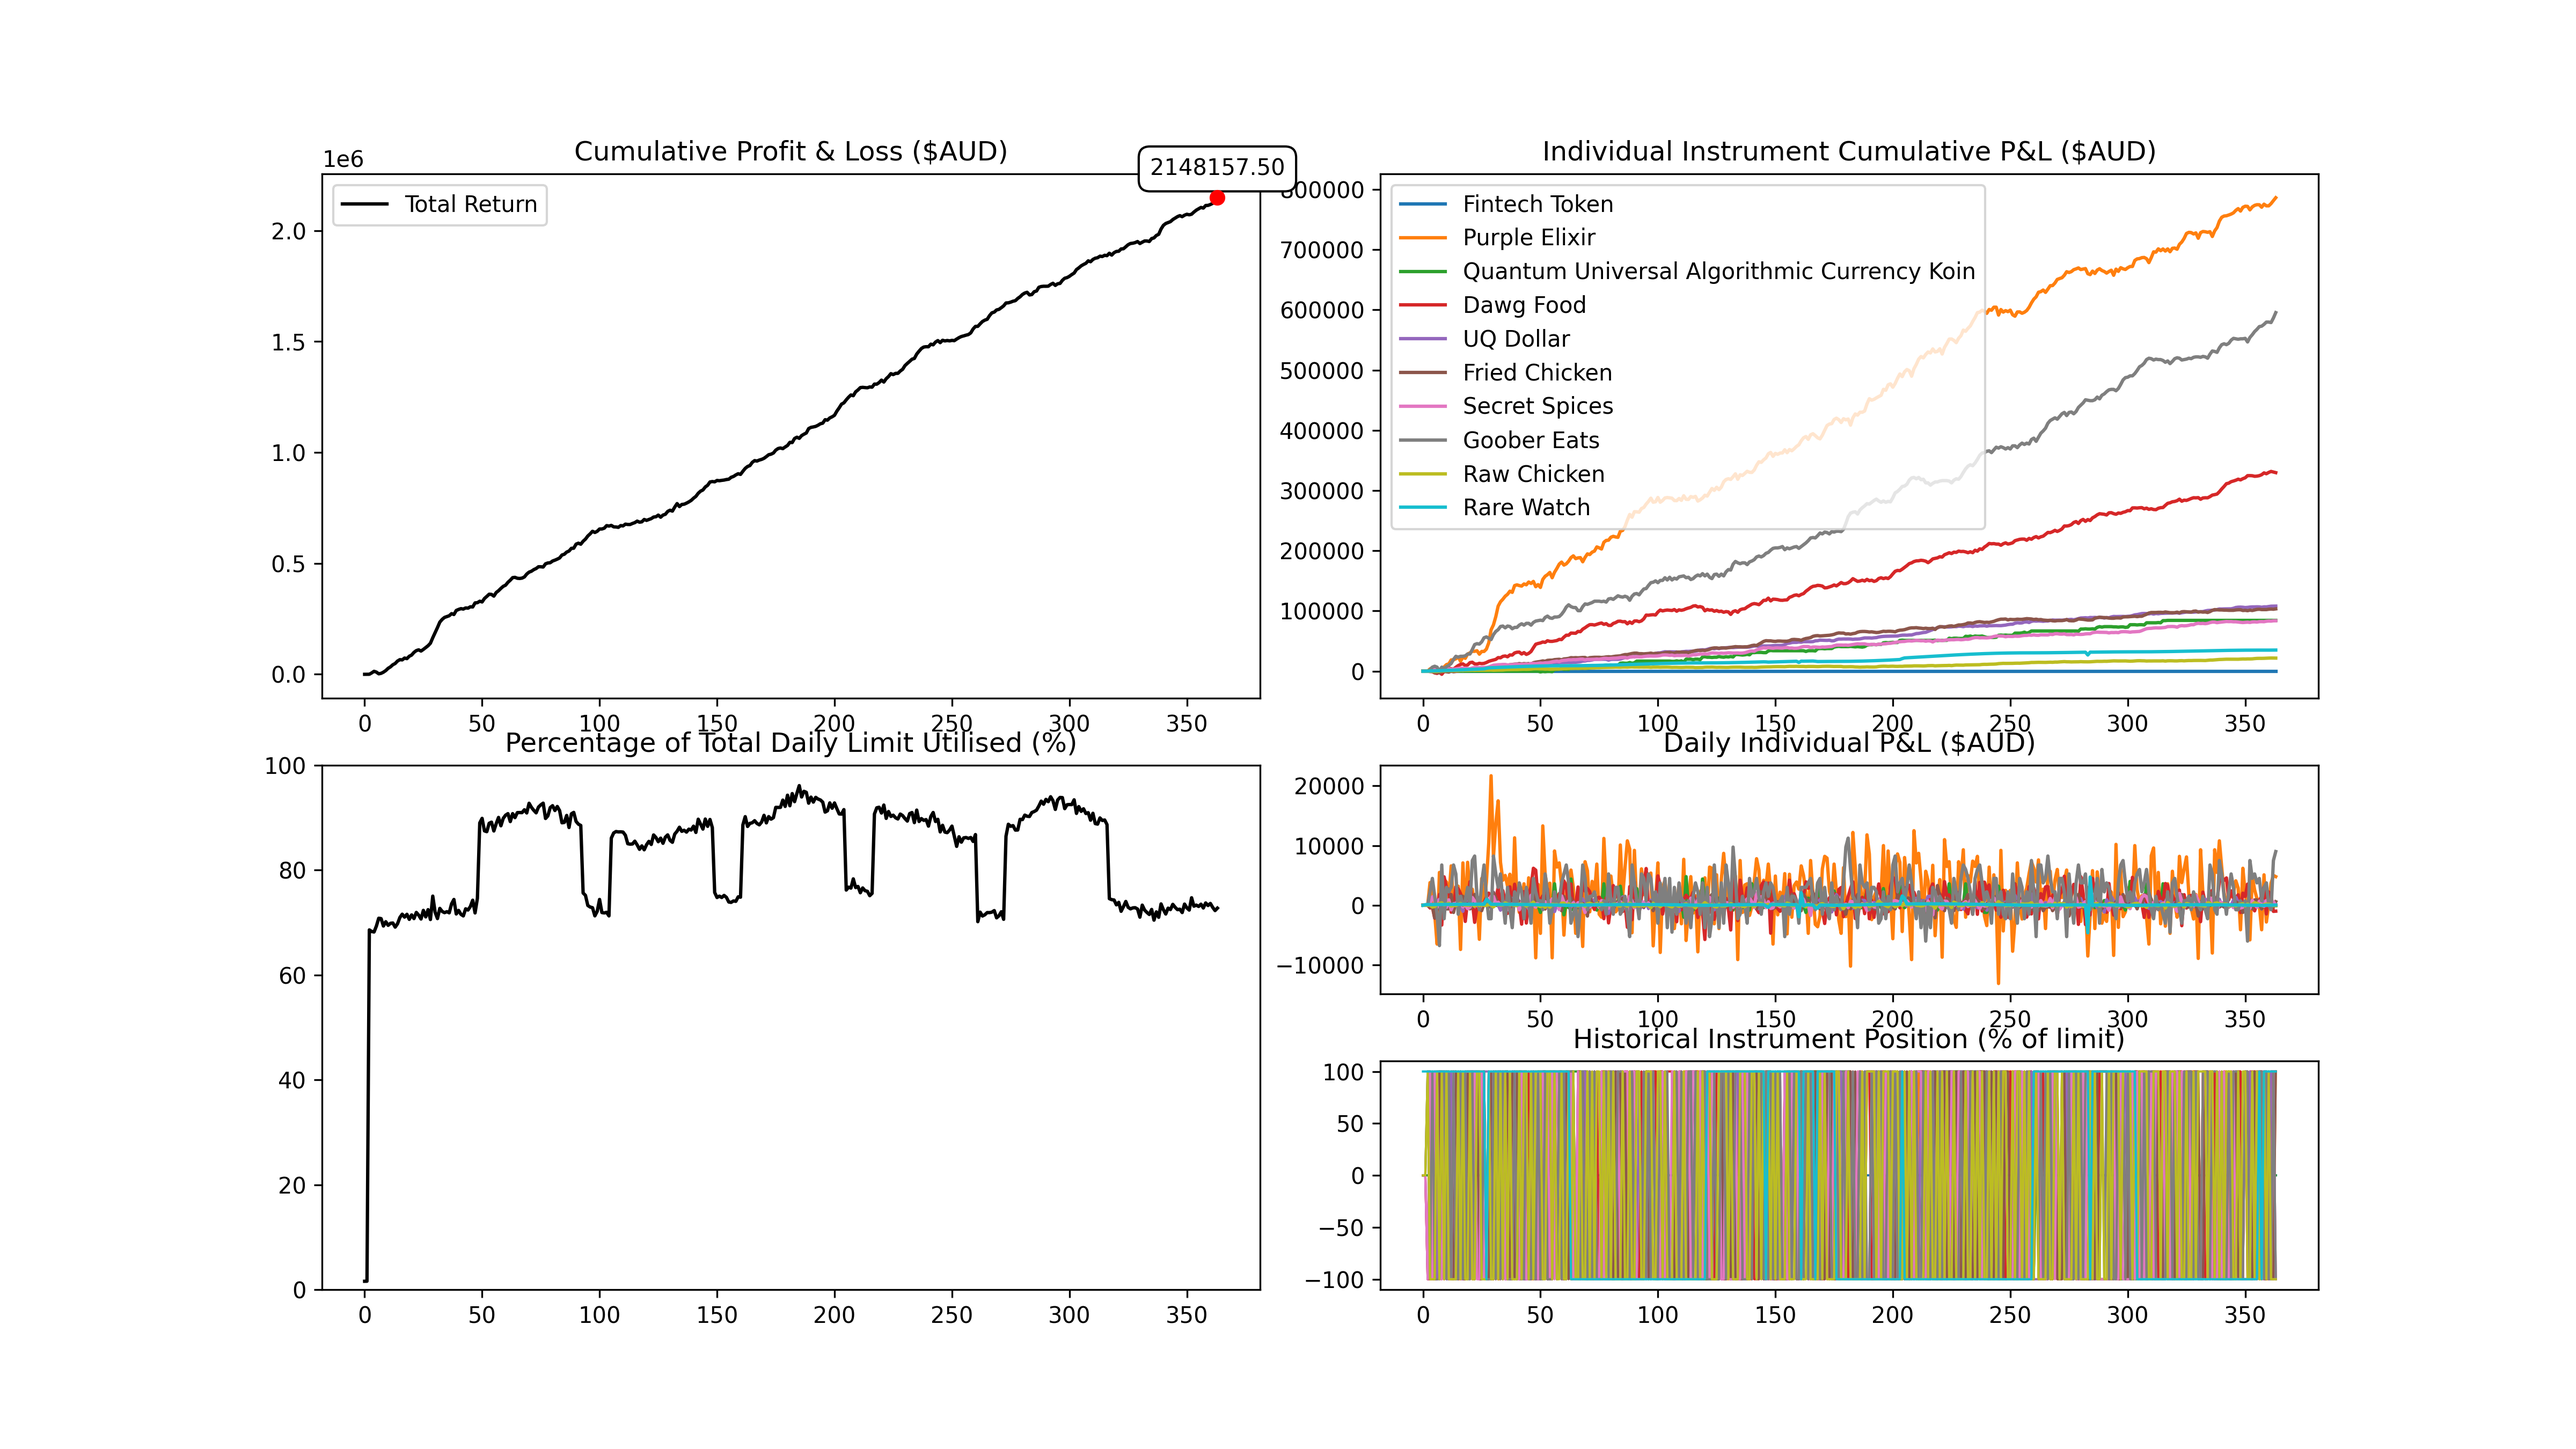
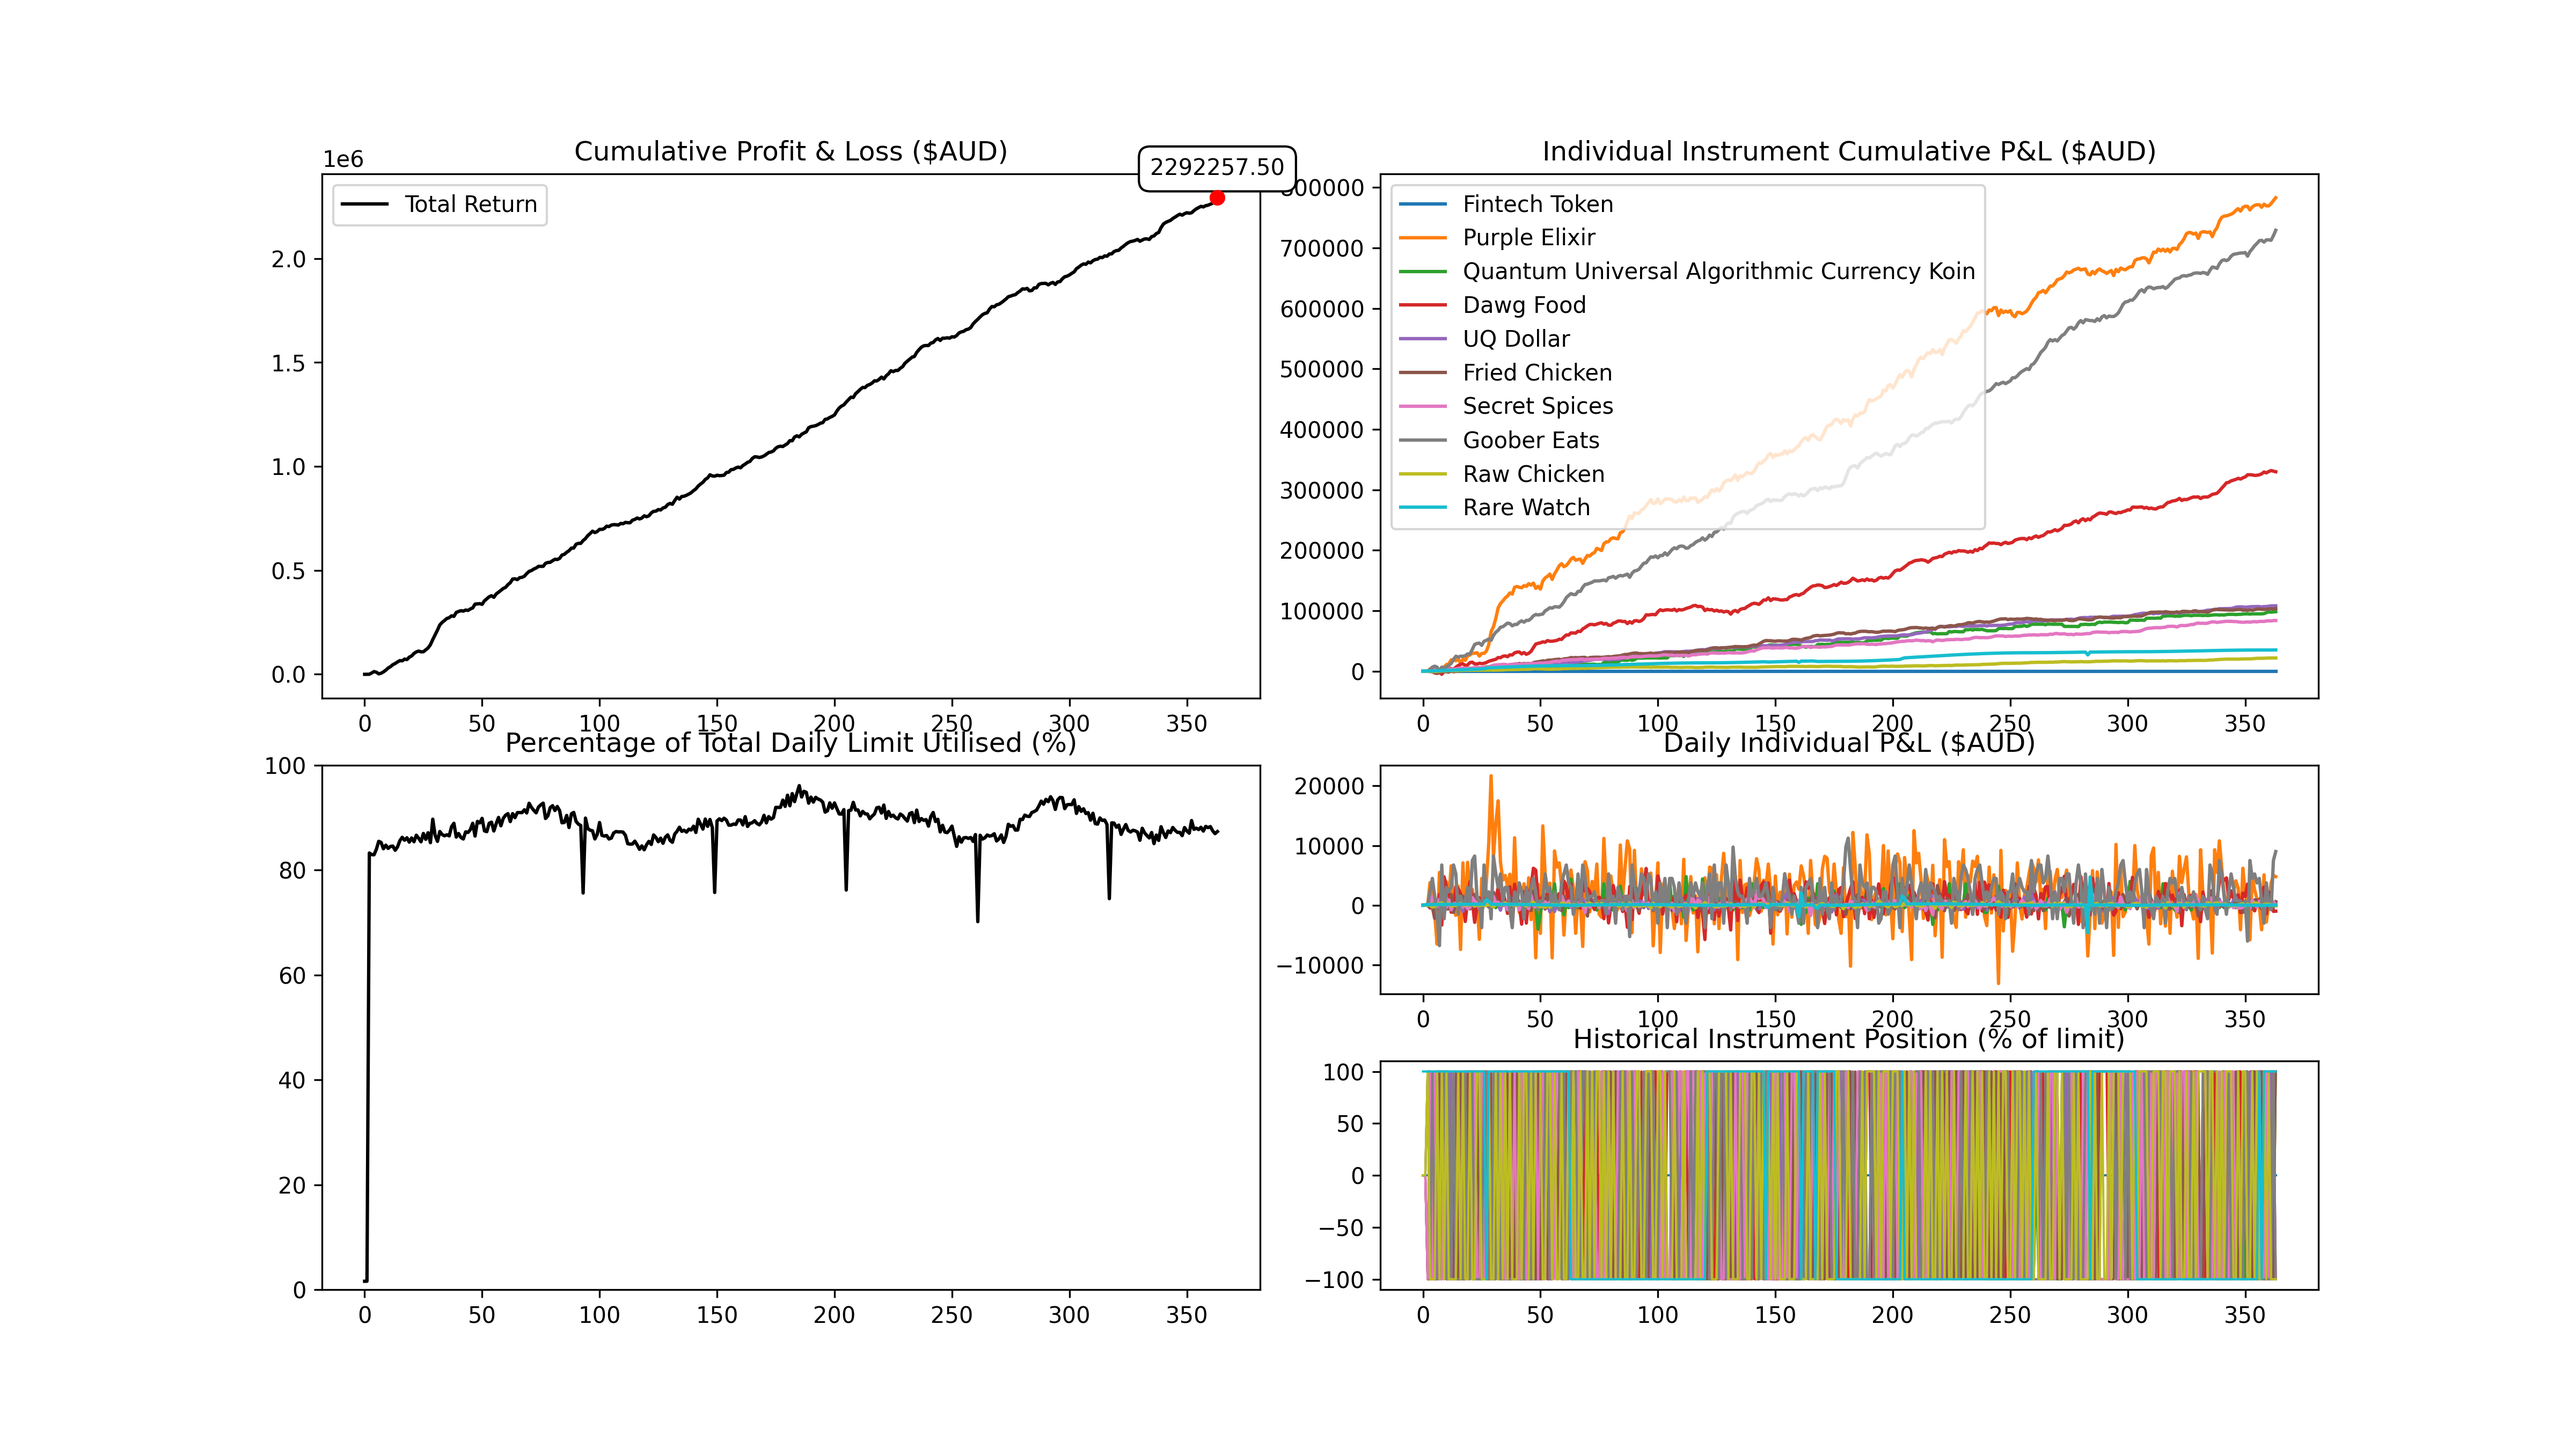
EMA on GE

diff --git a/trader_interface/algorithm.py b/trader_interface/algorithm.py
@@ -59,7 +59,7 @@ class Algorithm():
         # Display the current trading day
         print("Starting Algorithm for Day:", self.day)
         
-        trade_instruments = self.positionLimits.keys() - {RW, FT}
+        trade_instruments = self.positionLimits.keys() - {RW, FT, QUACK}
 
         # Display the prices of instruments I want to trade
         for ins in trade_instruments:
@@ -192,11 +192,19 @@ class Algorithm():
         #     else:
         #         desiredPositions[FT] = 0
 
+        # # FT
+        # if self.day == 0:
+        #     desiredPositions[FT] = -positionLimits[FT]
+        # elif self.day == 364:
+        #     desiredPositions[FT] = 0
+        # else:
+        #     desiredPositions[FT] = self.positions[FT]
+
 
 
         # EMA
-        trade_instruments = [PE, UD]
-        ema_periods = {PE:10, UD:12, FC:42}  # EMA lookback period - TODO adjust for different instruments
+        trade_instruments = [PE, UD, GE]
+        ema_periods = {PE:10, UD:12, FC:42, GE:14}  # EMA lookback period - TODO adjust for different instruments
 
         # We need enough data to calculate EMA
         for ins in trade_instruments:
@@ -221,17 +229,28 @@ class Algorithm():
 
         # QUACK
         if self.day >= 2:
-            if not self.QUACKick and abs(self.data[QUACK][-1]-self.data[QUACK][-2]) > 0.05:
-                self.QUACKick = 1
-                desiredPositions[QUACK] = positionLimits[QUACK] if (self.data[QUACK][-1] > self.data[QUACK][-2]) else -positionLimits[QUACK]
-                self.QUACKStart = self.day
-            elif self.QUACKick and self.day == self.QUACKStart + 22:
-                desiredPositions[QUACK] = -currentPositions[QUACK]
-            elif self.QUACKick and self.day == self.QUACKStart + 44:
-                self.QUACKick = 0
-                desiredPositions[QUACK] = 0
+            if self.QUACKick:
+                if self.day == self.QUACKStart + 22:
+                    desiredPositions[QUACK] = -currentPositions[QUACK]
+                elif self.QUACKick and self.day == self.QUACKStart + 44:
+                    self.QUACKick = 0
+                    desiredPositions[QUACK] = 0
+                else:
+                    desiredPositions[QUACK] = currentPositions[QUACK]
+
             else:
-                desiredPositions[QUACK] = currentPositions[QUACK]
+                if abs(self.data[QUACK][-1]-self.data[QUACK][-2]) > 0.05:
+                    self.QUACKick = 1
+                    desiredPositions[QUACK] = positionLimits[QUACK] if (self.data[QUACK][-1] > self.data[QUACK][-2]) else -positionLimits[QUACK]
+                    self.QUACKStart = self.day
+                else:
+                    # Fallback to simple price comparison strategy
+                    if self.data[QUACK][-2] > self.data[QUACK][-1]:
+                        desiredPositions[QUACK] = positionLimits[QUACK]
+                    else:
+                        desiredPositions[QUACK] = -positionLimits[QUACK]
+
+
 
 
 

diff --git a/trader_interface/performance.py b/trader_interface/performance.py
@@ -75,7 +75,7 @@ class PerformanceAnalyzer:
         peak = np.maximum.accumulate(cumulative)
 
         # Handle division by zero - create a safe version of peak for division
-        safe_peak = np.where(peak > 0, peak, 1)  # Replace zeros with 1.0 to avoid division by zero
+        safe_peak = np.where(peak > 0, peak, 1.0)  # Replace zeros with 1.0 to avoid division by zero
         drawdown = np.where(peak > 0, (peak - cumulative) / safe_peak, 0.0)
 
         max_drawdown = np.max(drawdown) if len(drawdown) > 0 else 0
